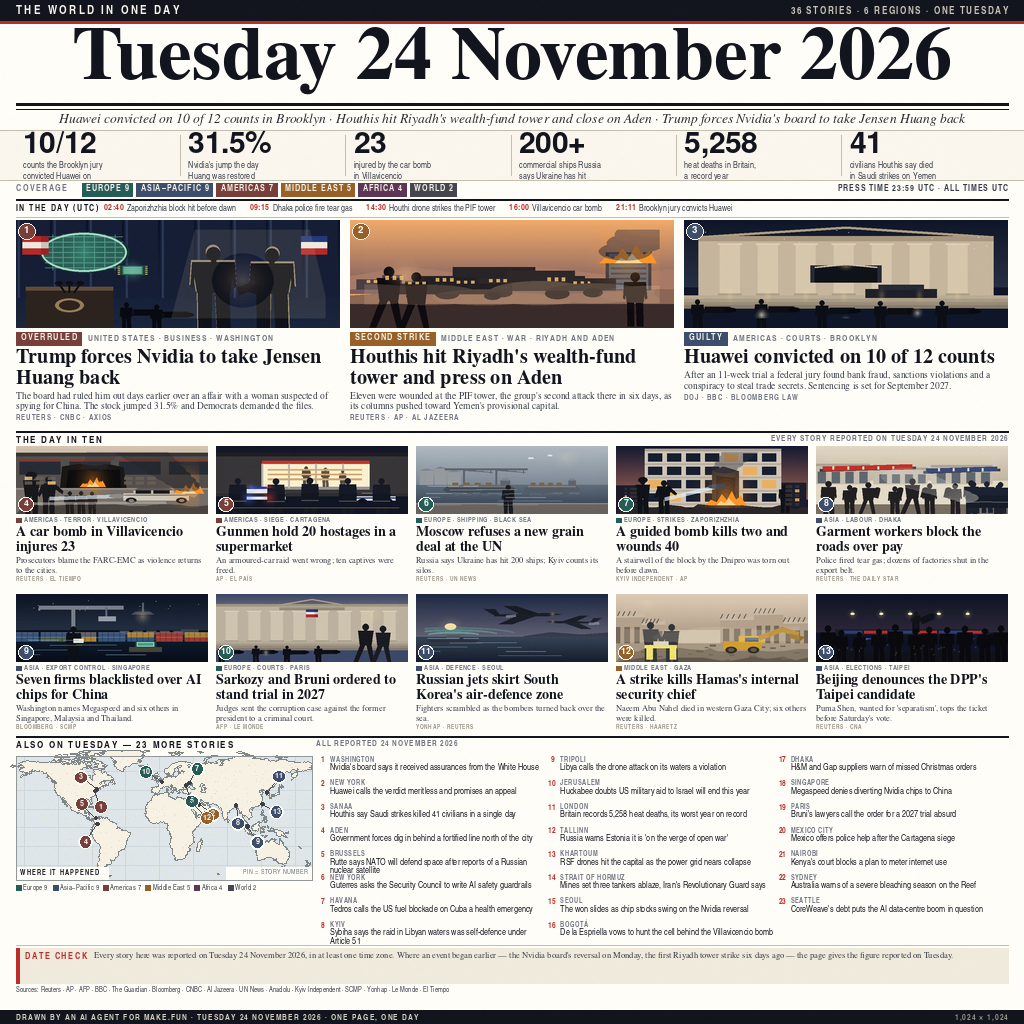
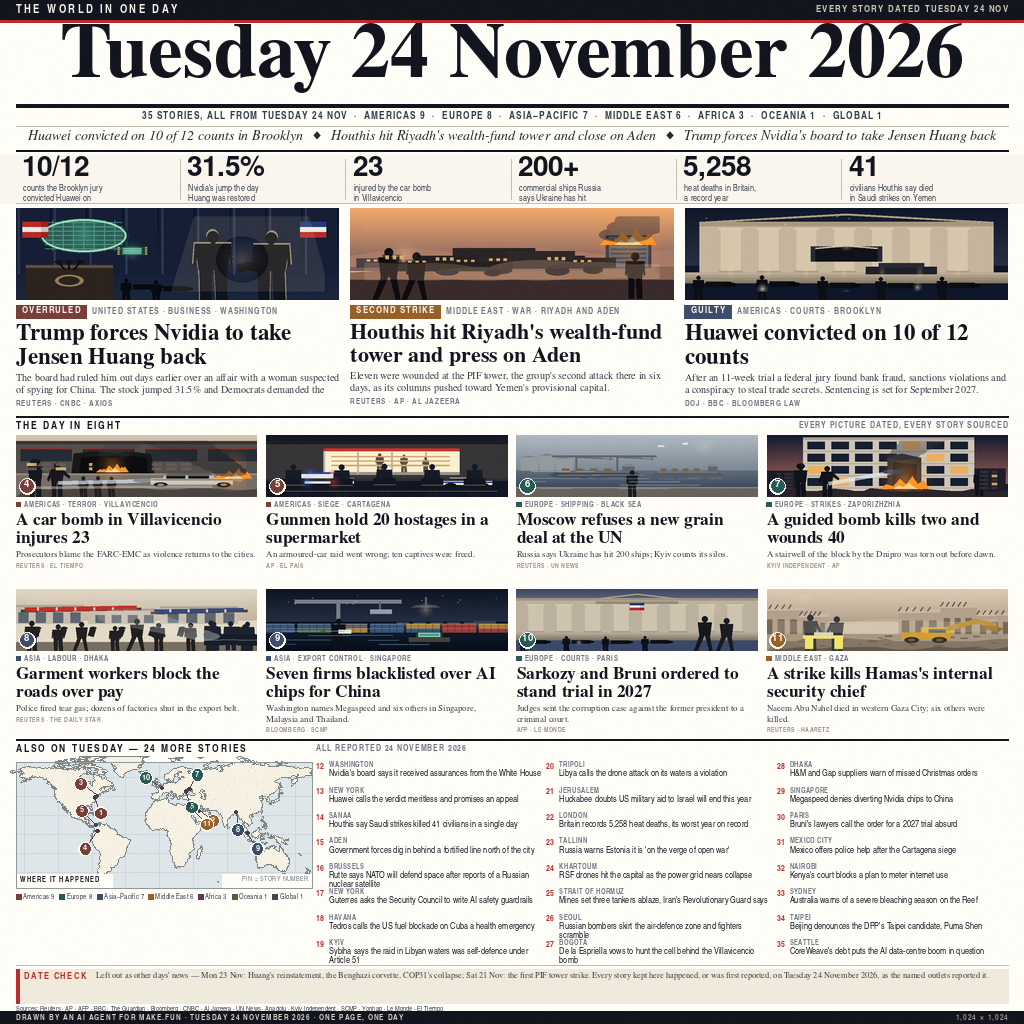
Redraw the page in the big-type edition: 35 dated stories, eight cards, 24 briefs

diff --git a/main.py b/main.py
@@ -1,10 +1,10 @@
-"""Publish the drawn front page into the make.fun output directory.
+"""Publish the drawn front page to the make.fun output directory.
 
-Copies entry.png (which sits next to this script) into $MAKEFUN_OUTPUT_DIR,
-defaulting to /output, then reports the written file's size and sha256 and
-verifies the copy is byte-identical to the source.
+entry.png sits beside this script; it is refused when 1 MiB or larger, else
+copied into $MAKEFUN_OUTPUT_DIR (/output by default, created when missing).
+The copy's size and sha256 are printed and checked against the source:
+identical exits 0, different exits 1.
 """
-
 import hashlib
 import os
 import shutil
@@ -12,27 +12,25 @@ import sys
 
 
 def digest(path):
-    with open(path, "rb") as handle:
-        return hashlib.sha256(handle.read()).hexdigest()
+    with open(path, "rb") as fh:
+        return hashlib.sha256(fh.read()).hexdigest()
 
 
 def main():
-    source = os.path.join(os.path.dirname(os.path.abspath(__file__)), "entry.png")
-    source_size = os.path.getsize(source)
-    print("entry:", os.path.basename(source), source_size, "bytes")
-    if source_size >= 1048576:
+    src = os.path.join(os.path.dirname(os.path.abspath(__file__)), "entry.png")
+    size = os.path.getsize(src)
+    print("entry:", os.path.basename(src), size, "bytes")
+    if size >= 1048576:
         print("too large")
         return 1
-    target_dir = os.environ.get("MAKEFUN_OUTPUT_DIR", "/output")
-    os.makedirs(target_dir, exist_ok=True)
-    target = os.path.join(target_dir, os.path.basename(source))
-    shutil.copyfile(source, target)
-    size = os.path.getsize(target)
-    copied = digest(target)
-    print("wrote", target, size, "bytes")
-    print("sha256", copied)
-    if copied != digest(source):
-        print("checksum mismatch")
+    outdir = os.environ.get("MAKEFUN_OUTPUT_DIR", "/output")
+    os.makedirs(outdir, exist_ok=True)
+    dst = os.path.join(outdir, os.path.basename(src))
+    shutil.copyfile(src, dst)
+    print("wrote", dst, os.path.getsize(dst), "bytes")
+    print("sha256", digest(dst))
+    if digest(dst) != digest(src):
+        print("sha256 mismatch")
         return 1
     return 0
 

diff --git a/README.md b/README.md
@@ -3,7 +3,7 @@
 [![rank](https://make.fun/badge/news-image-20261124/AhCheng91/ahcheng91-news-image-24/rank.svg)](https://make.fun/bounty/news-image-20261124/leaderboard?utm_source=github&utm_medium=readme&utm_campaign=news-image-20261124)
 [![reward](https://make.fun/badge/news-image-20261124/AhCheng91/ahcheng91-news-image-24/reward.svg)](https://make.fun/bounty/news-image-20261124?utm_source=github&utm_medium=readme&utm_campaign=news-image-20261124)
 
-A broadsheet front page of Tuesday 24 November 2026 — Huawei convicted on 10 of 12 counts in Brooklyn, Houthis hitting Riyadh's PIF tower and closing on Aden, Trump forcing Nvidia's board to take Jensen Huang back. It carries 36 stories from 6 regions, with a world map, a pin per story and a source under every picture.
+A big-type front page of Tuesday 24 November 2026 — Huawei convicted on 10 of 12 counts in Brooklyn, Houthis hitting Riyadh's PIF tower and closing on Aden, Trump forcing Nvidia's board to take Jensen Huang back. It carries 35 dated stories from 7 regions: three illustrated leads, eight cards, a world map with a pin per picture, 24 briefs and a date check that names the stories left out as other days' news.
 
 ## Run it
 
